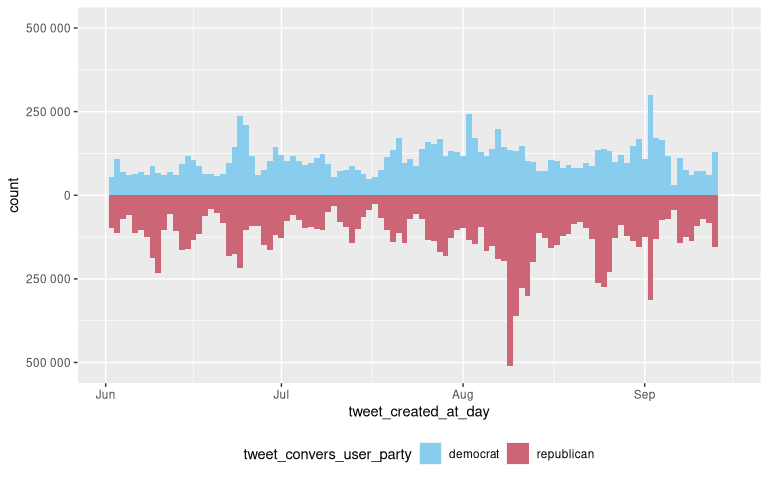
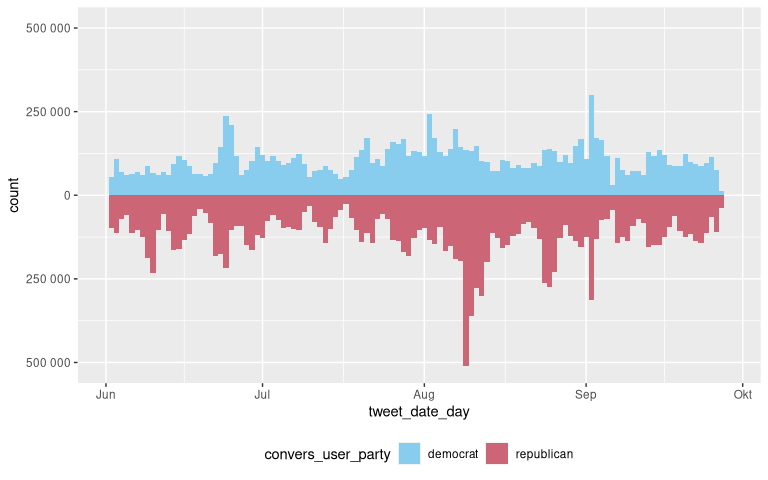
update

diff --git a/README.md b/README.md
@@ -35,7 +35,7 @@ tweets_db <- dbConnect(
 )
 
 dbListTables(tweets_db)
-#> [1] "delegates_info"      "tweets_clean"        "tweets_clean_pruned"
+#> [1] "convers_info"        "tweets_clean"        "tweets_clean_pruned"
 #> [4] "tweets_raw"
 ```
 
@@ -44,24 +44,24 @@ dbListTables(tweets_db)
 tbl(tweets_db, "tweets_raw")
 #> # Source:   table<tweets_raw> [?? x 26]
 #> # Database: sqlite 3.39.1 [/mnt/21f3fcbc-9669-4c84-afae-5205d7a138ad/Documents/get_tweets/data/tweets.db]
-#>   tweet_st…¹ tweet…² tweet…³ tweet…⁴ tweet…⁵ tweet…⁶ tweet_created_at    tweet…⁷
-#>      <int64> <int64> <chr>     <int>   <int> <chr>   <dttm>              <chr>  
-#> 1       1e18    1e18 AlexPa…  8.25e7  8.25e7 AlexPa… 2022-05-25 16:41:20 en     
-#> 2       1e18    1e18 AlexPa…  8.25e7  8.25e7 AlexPa… 2022-05-24 19:54:37 en     
-#> 3       1e18    1e18 AlexPa…  8.25e7  8.25e7 AlexPa… 2022-05-24 16:41:31 en     
-#> 4       1e18    1e18 AlexPa…  8.25e7  8.25e7 AlexPa… 2022-05-24 01:05:02 en     
-#> 5       1e18    1e18 AlexPa…  8.25e7  8.25e7 AlexPa… 2022-05-23 21:30:05 en     
+#>   tweet_id convers…¹ conve…² conve…³ user_id user_…⁴ tweet_date          tweet…⁵
+#>    <int64>   <int64> <chr>     <int>   <int> <chr>   <dttm>              <chr>  
+#> 1     1e18      1e18 AlexPa…  8.25e7  8.25e7 AlexPa… 2022-05-25 16:41:20 en     
+#> 2     1e18      1e18 AlexPa…  8.25e7  8.25e7 AlexPa… 2022-05-24 19:54:37 en     
+#> 3     1e18      1e18 AlexPa…  8.25e7  8.25e7 AlexPa… 2022-05-24 16:41:31 en     
+#> 4     1e18      1e18 AlexPa…  8.25e7  8.25e7 AlexPa… 2022-05-24 01:05:02 en     
+#> 5     1e18      1e18 AlexPa…  8.25e7  8.25e7 AlexPa… 2022-05-23 21:30:05 en     
 #> # … with more rows, 18 more variables: tweet_text <chr>,
-#> #   tweet_reply_to_status_id <int>, tweet_reply_to_user_id <int>,
-#> #   tweet_reply_to_user_screen_name <chr>, tweet_retweet_status_id <int>,
-#> #   tweet_retweet_created_at <dttm>, tweet_retweet_user_id <int>,
-#> #   tweet_retweet_user_screen_name <chr>, tweet_quote_status_id <int>,
-#> #   tweet_quote_created_at <dttm>, tweet_quote_user_id <int>,
+#> #   tweet_reply_tweet_id <int>, tweet_reply_user_id <int>,
+#> #   tweet_reply_user_screen_name <chr>, tweet_retweet_tweet_id <int>,
+#> #   tweet_retweet_tweet_date <dttm>, tweet_retweet_user_id <int>,
+#> #   tweet_retweet_user_screen_name <chr>, tweet_quote_tweet_id <int>,
+#> #   tweet_quote_tweet_date <dttm>, tweet_quote_user_id <int>,
 #> #   tweet_quote_user_screen_name <chr>, tweet_quote_text <chr>, …
 
 # Number of rows
 pull(tally(tbl(tweets_db, "tweets_raw")), n)
-#> [1] 26376808
+#> [1] 29244142
 ```
 
 ``` r
@@ -71,7 +71,7 @@ tweets_count <- local({
   .tweets_count_chunk_size <- 1e6L
   
   .tweets_count_statement <- str_c(
-    "SELECT `tweet_convers_user_screen_name`, `tweet_created_at` ",
+    "SELECT `convers_user_screen_name`, `tweet_date` ",
     "FROM `tweets_raw`"
   )
   
@@ -90,8 +90,8 @@ tweets_count <- local({
     .tweets_count <- 
       .chunk_raw %>% 
       count(
-        tweet_convers_user_screen_name,
-        tweet_created_at_day = lubridate::as_date(tweet_created_at), 
+        convers_user_screen_name,
+        tweet_date_day = lubridate::as_date(tweet_date), 
         name="count"
       ) %>% 
       bind_rows(.tweets_count) %>% 
@@ -105,16 +105,16 @@ tweets_count <- local({
   dbClearResult(.tweets_count_query)
   
   .delegates_info <- 
-    tbl(tweets_db, "delegates_info") %>% 
+    tbl(tweets_db, "convers_info") %>% 
     select(
-      tweet_convers_user_screen_name, 
-      tweet_convers_user_party = party,
-      tweet_convers_user_role = role
+      convers_user_screen_name, 
+      convers_user_party = party,
+      convers_user_role = role
     ) %>% 
     collect()
   
   .tweets_count <- left_join(
-    .tweets_count, .delegates_info, by="tweet_convers_user_screen_name"
+    .tweets_count, .delegates_info, by="convers_user_screen_name"
   )
   
   return(.tweets_count)
@@ -122,19 +122,19 @@ tweets_count <- local({
 })
 
 tweets_count %>% 
-  group_by(tweet_convers_user_party, tweet_created_at_day) %>% 
+  group_by(convers_user_party, tweet_date_day) %>% 
   summarise(across(count, sum), .groups="drop") %>% 
   mutate(count = modify_if(
-    as.double(count), tweet_convers_user_party != "democrat", `*`, -1
+    as.double(count), convers_user_party == "republican", `*`, -1
   )) %>% 
-  filter(tweet_created_at_day > lubridate::ymd("2022-06-01")) %>% 
+  filter(tweet_date_day > lubridate::ymd("2022-06-01")) %>% 
   ggplot(
-    aes(x=tweet_created_at_day, y=count, fill=tweet_convers_user_party)
+    aes(x=tweet_date_day, y=count, fill=convers_user_party)
   ) + 
   geom_col(width=1) +
   scale_y_continuous(
     labels=function(.b){scales::number(abs(.b))},
-    limits=function(.l){.m <- max(abs(.l)); c(-.m, .m)}
+    limits=function(.l){max(abs(.l)) * c(-1, 1)}
   ) +
   rcartocolor::scale_fill_carto_d(palette="Safe") +
   theme(legend.position="bottom")
